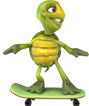
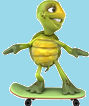
background add , final sprite added

diff --git a/index.html b/index.html
@@ -1,7 +1,6 @@
 <!DOCTYPE HTML>
 <html>
 <head>
-  JS13KBGAME
   <style>
   body {
     margin: 0px;
@@ -10,12 +9,12 @@
   </style>
 </head>
 <body>
-  <h3>Space to jump, 0 for fire,1 for rock</h3>
-  <canvas id="myCanvas" width="1000" height="600" style="position: absolute; top: 150px; left: 420px; border:7px solid #111111;"></canvas>
+  <h2><center>Space to Jump, 'a' for Fire,'s' for Rock,'d' for Water</center></h2>
+  <canvas id="myCanvas" width="1000" height="600" style="border:5px solid #111111; background: #99D9EA; " ></canvas>
   <script>
   var x =  0;
   var x1;
-  var speed = -5;
+  var speed = -8;
   var grassLen=5;
   var gorgeSize=1; //X tikmes size of grass sprite
   var loop1=true; //for grass
@@ -30,12 +29,10 @@
   var jump=false;
   var jumpDir=-5;
   var grass;  
-  var obstacleSrc=["fire.png","rock.png"];
+  var obstacleSrc=["fire.png","rock.png","water.png"];
   var obstacleArr=[];
+  var gameOver=false;
   window.addEventListener('keydown', whatKey, true);
-//coloring the background
-  context.fillStyle = "#99FFFF";
-  context.fillRect(0,0,1000,600);
 
   // Defininition for deletion of an array element
   Array.prototype.remove = function(from, to) {
@@ -44,23 +41,8 @@
     return this.push.apply(this, rest);
   };
 
-function Drawable() {
-  this.init = function(x, y) {
-    // Default variables
-    this.x = x;
-    this.y = y;
-  }
-  this.speed = 0;
-  this.canvasWidth = 0;
-  this.canvasHeight = 0;
-  // Define abstract function to be implemented in child objects
-  this.draw = function() {
-  };
-}
-
-
   var player = new Image();
-  setInterval(generateObstacle, 2000);
+  setInterval(generateObstacle, 1700);
 
   player.onload = function() {
     playerY=canvas.height*0.85-player.height;
@@ -68,6 +50,17 @@ function Drawable() {
     context.drawImage(player,playerX,playerY);
   };
   player.src = 'player.png';
+
+  //cloud background
+  var img = new Image();
+img.src = 'cloud.png';
+img.onload = function(){
+    for (var w = 0; w < canvas.width; w += img.width) {
+        for (var h = 0; h < 100; h  += img.height) {
+            context.drawImage(img, w, h);
+        }
+    }
+}
 
   var grassX=-10 //Least position for x ; reinitialezed in end 
   x1=canvas.width;
@@ -77,7 +70,7 @@ function Drawable() {
     grassX=grass.width*grassLen*-1
     xSpawn=canvas.width-grass.width*gorgeSize+grassX;
   };
-  grass.src="water.png";
+  grass.src="grass.png";
   function animate() {
 
     reqAnimFrame = window.mozRequestAnimationFrame    ||
@@ -116,7 +109,8 @@ function Drawable() {
     if(loop1 && loop2 && !jump && ( (x-grassX<playerX && x1>playerX+player.width)||(x1-grassX<playerX && x>playerX+player.width)))
     {
      // console.log("OUT");
-     location.reload();
+     gameOver=true;
+     //location.reload();
 
    }
    /*Player code end*/
@@ -160,16 +154,22 @@ function Drawable() {
     /* Grass Coding End*/
 
     /*Player coding Begin*/
-    if(jump)
+    if(gameOver)
+    {
+      context.clearRect(playerX,playerY,player.width,player.height);
+      playerY-=jumpDir;
+      context.drawImage(player, playerX,playerY);
+      if(playerY+player.width>canvas.height)
+      {
+        location.reload();
+      }
+    }
+    else if(jump)
     {
 
       context.clearRect(playerX,playerY,player.width,player.height);
       if(playerY<=canvas.width/5)
         jumpDir*=-1;
-      //backbround for player jump
-      context.fillStyle = "#99FFFF";
-      context.fillRect(0,0,1000,510);
-
       playerY+=jumpDir;
       context.drawImage(player, playerX,playerY);
       if(playerY==playerYDefault)
@@ -187,14 +187,10 @@ function Drawable() {
     {
       obstacleArr[i].x+=speed;
       if(obstacleArr[i].x<=playerX+player.width)
-        location.reload();
-      //background between player and obstacle
-      context.fillStyle = "#111111";
-      context.fillRect(playerX+89,300,obstacleArr[i].x-100,210);
+        gameOver=true;
+        //location.reload();
       context.clearRect(obstacleArr[i].x-speed, obstacleArr[i].y, obstacleArr[i].obsImg.width,obstacleArr[i].obsImg.height );
-      
       context.drawImage(obstacleArr[i].obsImg,obstacleArr[i].x, obstacleArr[i].y, obstacleArr[i].obsImg.width,obstacleArr[i].obsImg.height );
-
     }
 
     /*obstacle coding end*/
@@ -229,15 +225,33 @@ function whatKey(evt)
     jump=true;
     //console.log("space");
   }
-  else if(evt.keyCode==48 || evt.keyCode==49)
+
+else if(evt.keyCode==65)
+  {
+    console.log(0);
+    delObstacle(0);
+  }
+else if(evt.keyCode==83)
+  {
+    console.log(1);
+    delObstacle(1);
+  }
+
+else if(evt.keyCode==68)
+  {
+    console.log(2);
+    delObstacle(2);
+  }  
+
+  /*else if(evt.keyCode==48 || evt.keyCode==49)
   {
     console.log(evt.keyCode-48);
     delObstacle(evt.keyCode-48);
-  }
+  }*/
 }
 function randomInt()
 {
-  return ~~(Math.random() * 2);
+  return ~~(Math.random() * 3);
 }
 function delObstacle(index)
 {
@@ -252,4 +266,4 @@ function delObstacle(index)
 }
 </script>
 </body>
-</html>      
+</html>    
